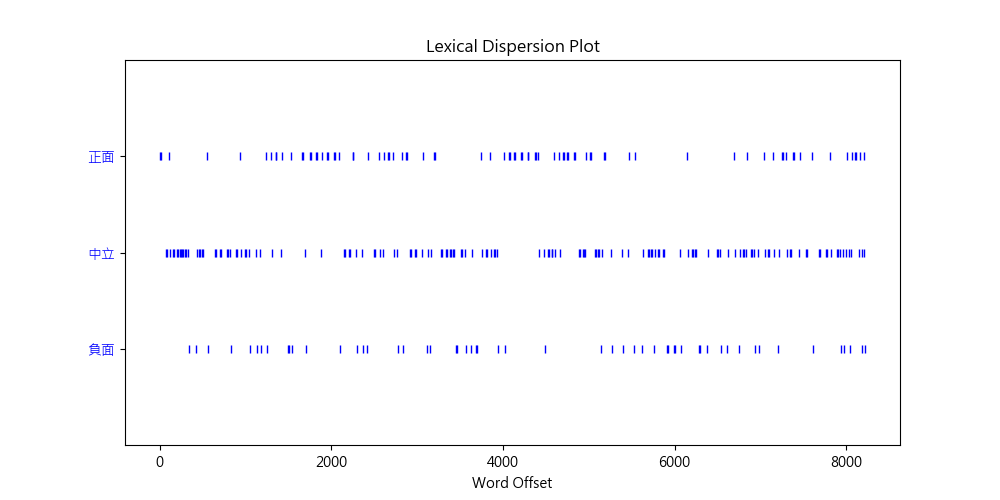
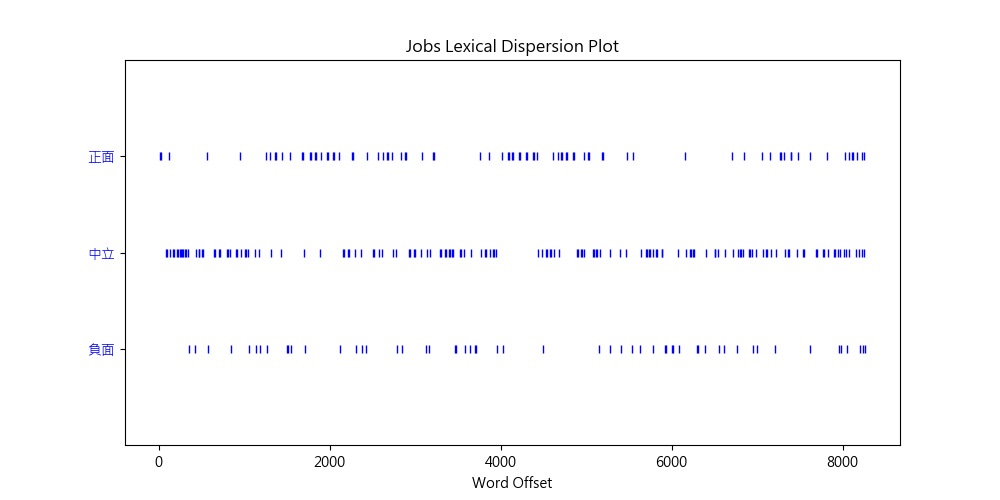
:ambulance: Minor Fix

diff --git a/Sent/prediction_code/sentiment_rnn_pred.py b/Sent/prediction_code/sentiment_rnn_pred.py
@@ -1,7 +1,6 @@
 #from pycorenlp import StanfordCoreNLP
-#import os
-#os.chdir('/app-sentiment-algo')
 
+import os
 import pandas as pd
 import numpy as np
 import keras
@@ -27,6 +26,20 @@ from nltk.tokenize import word_tokenize
 from nltk.tokenize import sent_tokenize
 import jieba
 import matplotlib.pyplot as plt
+
+# Set up File Path
+text_select = 'Trump'
+text_path = 'C:/Users/MyStyle/Desktop/WordAnalyze/Text/{}.txt'.format(text_select)
+log_path = 'C:/Users/MyStyle/Desktop/WordAnalyze/Result/Log_{}.txt'.format(text_select)
+
+# Initialize
+with open(log_path, "a", encoding = 'utf8') as myfile:
+        a = "test"
+        myfile.write(str(a))
+os.remove(log_path)
+with open(log_path, "a", encoding = 'utf8') as myfile:
+        a = "分析文本 :     {}\n\n".format(text_select)
+        myfile.write(str(a))
 
 weight_path = 'C:/Users/MyStyle/Desktop/WordAnalyze/Sent/model/best_model.hdf5'
 prd_model = load_model(weight_path)
@@ -115,10 +128,12 @@ def live_test(trained_model, data, word_idx):
         single_score_dot = -2
     return single_score_dot, single_score
 
-f = open('C:/Users/MyStyle/Desktop/WordAnalyze/Text/Trump.txt', encoding = 'utf8')
+f = open(text_path, encoding = 'utf8')
 sample = f.read()
 data_sample = sent_tokenize(sample)
-
+pos_nltk = 0
+neu_nltk = 0
+nag_nltk = 0
 pos = 0
 neu = 0
 nag = 0
@@ -129,10 +144,13 @@ for i in range (0, len(data_sample)-1):
     ss = sid.polarity_scores(data_sample[i])
     if ss['compound']>=0.3:
         sent_analyze = "正面"
+        pos_nltk = pos_nltk + 1
     elif -0.3 < ss['compound'] < 0.3:
         sent_analyze = "中立"
+        neu_nltk = neu_nltk + 1
     else :
         sent_analyze = "負面"
+        nag_nltk = nag_nltk + 1
 
     # LSTM Model
     result = live_test(loaded_model, data_sample[i], word_idx)
@@ -148,20 +166,58 @@ for i in range (0, len(data_sample)-1):
         result_sent = "負面"
         nag = nag + 1
 
-    with open("C:/Users/MyStyle/Desktop/WordAnalyze/Result/Log_Trump.txt", "a", encoding = 'utf8') as myfile:
+    with open(log_path, "a", encoding = 'utf8') as myfile:
         a = "NLTK 情緒模型 : {} , LSTM 情緒模型 : {}    {}\n".format(sent_analyze, result_sent, data_sample[i])
         myfile.write(str(a))
 
-with open("C:/Users/MyStyle/Desktop/WordAnalyze/Result/Log_Trump.txt", "a", encoding = 'utf8') as myfile:
-        a = "\n\n\n總計 : 正面:{}次，中立:{}次，負面:{}次".format(pos,neu,nag)
+with open(log_path, "a", encoding = 'utf8') as myfile:
+        a = "\n\n\n總計 : \n    NLTK _ 正面:{}次，中立:{}次，負面:{}次\n    LSTM _ 正面:{}次，中立:{}次，負面:{}次".format(pos_nltk,neu_nltk,nag_nltk,pos,neu,nag)
         myfile.write(str(a))
 print("File Saved !")
-file_1=open('C:/Users/MyStyle/Desktop/WordAnalyze/Result/Log_Trump.txt', encoding='utf-8').read()
+
+# Dispersion Plot
+words = ["正面","中立","負面"]
+plt_title = "{} Lexical Dispersion Plot".format(text_select)
+
+def dispersion_plot(text, words, ignore_case=False, title=plt_title):
+    try:
+        from matplotlib import pylab
+    except ImportError:
+        raise ValueError(
+            'The plot function requires matplotlib to be installed.'
+            'See http://matplotlib.org/'
+        )
+
+    text = list(text)
+    words.reverse()
+
+    if ignore_case:
+        words_to_comp = list(map(str.lower, words))
+        text_to_comp = list(map(str.lower, text))
+    else:
+        words_to_comp = words
+        text_to_comp = text
+
+    points = [
+        (x, y)
+        for x in range(len(text_to_comp))
+        for y in range(len(words_to_comp))
+        if text_to_comp[x] == words_to_comp[y]
+    ]
+    if points:
+        x, y = list(zip(*points))
+    else:
+        x = y = ()
+    pylab.plot(x, y, "b|", scalex=0.1)
+    pylab.yticks(list(range(len(words))), words, color="b")
+    pylab.ylim(-1, len(words))
+    pylab.title(title)
+    pylab.xlabel("Word Offset")
+    pylab.show()
+
+file_1=open(log_path, encoding='utf-8').read()
 seg_list=nltk.text.Text(jieba.lcut(file_1))
 
-from matplotlib.font_manager import FontProperties
-import matplotlib.pyplot as plt
 plt.figure(figsize=(10, 5)) 
 plt.rcParams['font.sans-serif'] = ['Microsoft JhengHei']
-
-print(seg_list.dispersion_plot(["正面","中立","負面"]))
+dispersion_plot(seg_list, words, False, plt_title)

diff --git a/README.md b/README.md
@@ -22,6 +22,7 @@ What's this?
 * Change Word Cloud mask to cross.jpg
 * Fix Dict Structure
 * Add Sentiment Analyze Func. Using Deep Learning
+* Optimize Code Structure
 
 Reference : 
 https://brohrer.mcknote.com/zh-Hant/how_machine_learning_works/how_rnns_lstm_work.html
